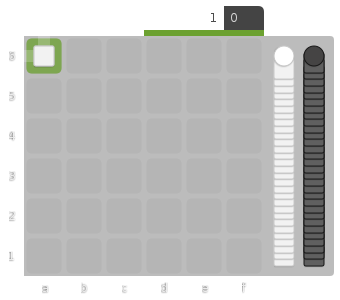
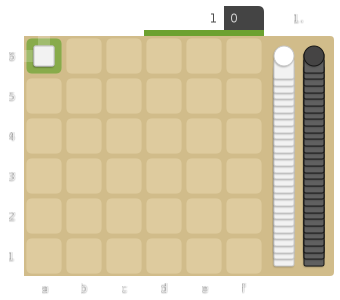
New feature: Stack Counts
- Add option `stackCounts`
- Remove option `pieceShadows`

diff --git a/src/themes.js b/src/themes.js
@@ -25,6 +25,8 @@ exports.themes = [
       textDark: "#212121cd",
       umbra: "#00000033",
     },
+    board1Dark: true,
+    board2Dark: true,
     player1Dark: false,
     player2Dark: true,
     secondaryDark: true,
@@ -55,6 +57,8 @@ exports.themes = [
       textDark: "#212121cd",
       umbra: "#00000033",
     },
+    board1Dark: false,
+    board2Dark: false,
     player1Dark: false,
     player2Dark: true,
     secondaryDark: false,
@@ -85,6 +89,8 @@ exports.themes = [
       textDark: "#000000",
       umbra: "#000000aa",
     },
+    board1Dark: false,
+    board2Dark: true,
     player1Dark: false,
     player2Dark: true,
     secondaryDark: true,
@@ -115,6 +121,8 @@ exports.themes = [
       textDark: "#212121cd",
       umbra: "#00000033",
     },
+    board1Dark: false,
+    board2Dark: false,
     player1Dark: false,
     player2Dark: true,
     secondaryDark: true,
@@ -145,6 +153,8 @@ exports.themes = [
       textDark: "#634831",
       umbra: "#453c3455",
     },
+    board1Dark: true,
+    board2Dark: true,
     player1Dark: false,
     player2Dark: true,
     secondaryDark: false,
@@ -174,6 +184,8 @@ exports.themes = [
       textDark: "#212121cd",
       umbra: "#00000022",
     },
+    board1Dark: true,
+    board2Dark: true,
     player1Dark: false,
     player2Dark: true,
     secondaryDark: true,
@@ -204,6 +216,8 @@ exports.themes = [
       textDark: "#212121cd",
       umbra: "#00000033",
     },
+    board1Dark: true,
+    board2Dark: true,
     player1Dark: false,
     player2Dark: true,
     secondaryDark: true,
@@ -234,6 +248,8 @@ exports.themes = [
       textDark: "#212121cd",
       umbra: "#00000033",
     },
+    board1Dark: false,
+    board2Dark: false,
     player1Dark: false,
     player2Dark: true,
     secondaryDark: false,
@@ -264,6 +280,8 @@ exports.themes = [
       textDark: "#212121cd",
       umbra: "#00000033",
     },
+    board1Dark: true,
+    board2Dark: true,
     player1Dark: true,
     player2Dark: true,
     secondaryDark: true,
@@ -293,6 +311,8 @@ exports.themes = [
       textDark: "#212121cd",
       umbra: "#00000066",
     },
+    board1Dark: false,
+    board2Dark: true,
     player1Dark: true,
     player2Dark: true,
     secondaryDark: true,
@@ -323,6 +343,8 @@ exports.themes = [
       textDark: "#000000cd",
       umbra: "#00000055",
     },
+    board1Dark: true,
+    board2Dark: true,
     player1Dark: false,
     player2Dark: true,
     secondaryDark: true,
@@ -353,6 +375,8 @@ exports.themes = [
       textDark: "#212121cd",
       umbra: "#00000022",
     },
+    board1Dark: false,
+    board2Dark: false,
     player1Dark: false,
     player2Dark: true,
     secondaryDark: false,
@@ -383,6 +407,8 @@ exports.themes = [
       textDark: "#212121cd",
       umbra: "#00000033",
     },
+    board1Dark: true,
+    board2Dark: true,
     player1Dark: false,
     player2Dark: true,
     secondaryDark: true,
@@ -413,6 +439,8 @@ exports.themes = [
       textDark: "#212121cd",
       umbra: "#00000066",
     },
+    board1Dark: true,
+    board2Dark: true,
     player1Dark: false,
     player2Dark: true,
     secondaryDark: true,
@@ -443,6 +471,8 @@ exports.themes = [
       textDark: "#212121cd",
       umbra: "#00000033",
     },
+    board1Dark: true,
+    board2Dark: true,
     player1Dark: false,
     player2Dark: true,
     secondaryDark: true,
@@ -473,6 +503,8 @@ exports.themes = [
       textDark: "#212121cd",
       umbra: "#00000055",
     },
+    board1Dark: false,
+    board2Dark: false,
     player1Dark: false,
     player2Dark: true,
     secondaryDark: false,

diff --git a/src/index.js b/src/index.js
@@ -26,10 +26,10 @@ const defaults = {
   axisLabels: true,
   turnIndicator: true,
   flatCounts: true,
+  stackCounts: true,
   komi: 0,
   moveNumber: true,
   opening: "swap",
-  pieceShadows: true,
   showRoads: true,
   unplayedPieces: true,
   padding: true,
@@ -190,6 +190,7 @@ exports.TPStoCanvas = function (options = {}) {
   const shadowBlur = strokeWidth + Math.round(squareSize * 0.03);
 
   const fontSize = (squareSize * textSizes[options.textSize] * board.size) / 5;
+  const stackCountFontSize = Math.min(squareSize * 0.2, fontSize);
   const padding = options.padding ? Math.round(fontSize * 0.5) : 0;
 
   const flatCounterHeight = options.turnIndicator
@@ -568,6 +569,25 @@ exports.TPStoCanvas = function (options = {}) {
       drawSquareHighlight();
     }
 
+    // Stack Count
+    if (options.stackCounts && square.pieces.length > 1) {
+      ctx.save();
+      ctx.font = stackCountFontSize + "px sans";
+      ctx.shadowOffsetX = 0;
+      ctx.shadowOffsetY = stackCountFontSize * 0.05;
+      ctx.shadowBlur = stackCountFontSize * 0.1;
+      ctx.shadowColor = (isDark ? theme.board2Dark : theme.board1Dark)
+        ? theme.colors.textDark
+        : theme.colors.textLight;
+      ctx.fillStyle = (isDark ? theme.board2Dark : theme.board1Dark)
+        ? theme.colors.textLight
+        : theme.colors.textDark;
+      ctx.textBaseline = "top";
+      ctx.textAlign = "right";
+      ctx.fillText(square.pieces.length, squareSize * 0.9, squareSize * 0.8);
+      ctx.restore();
+    }
+
     if (square.piece) {
       square.pieces.forEach(drawPiece);
       drawPiece(square.piece);
@@ -653,16 +673,12 @@ exports.TPStoCanvas = function (options = {}) {
     }
 
     // Fill
-    if (options.pieceShadows) {
-      ctx.save();
-      ctx.shadowBlur = shadowBlur;
-      ctx.shadowOffsetY = shadowOffset;
-      ctx.shadowColor = theme.colors.umbra;
-    }
+    ctx.save();
+    ctx.shadowBlur = shadowBlur;
+    ctx.shadowOffsetY = shadowOffset;
+    ctx.shadowColor = theme.colors.umbra;
     ctx.fill();
-    if (options.pieceShadows) {
-      ctx.restore();
-    }
+    ctx.restore();
 
     // Stroke
     if (strokeWidth > 0) {

diff --git a/readme.md b/readme.md
@@ -42,11 +42,11 @@ flats2         Override number of flat stones for player
 
 ### Examples:
 
-`$ TPStoPNG "1,1,2,x2/x5/x5/x5/2,x4 1 3" komi=1 imageSize=sm`
+`$ TPStoPNG "1,1,12,x2/x5/x5/x5/2,x4 1 4" komi=1 imageSize=sm`
 
-![Example 1](/1,1,2,x2-x5-x5-x5-2,x4%201%203.png)
+![Example 1](/1,1,12,x2-x5-x5-x5-2,x4%201%204.png)
 
-*Output: 1,1,2,x2-x5-x5-x5-2,x4 1 3.png*
+*Output: 1,1,12,x2-x5-x5-x5-2,x4 1 4.png*
 
 `$ TPStoPNG 6 opening=no-swap ply=a6 imageSize=sm theme=zen bgAlpha=0`
 
@@ -63,10 +63,10 @@ bgAlpha        [0, 1] Background opacity
 axisLabels     [true|false] Show board coordinate labels
 turnIndicator  [true|false] Show turn indicator and player names
 flatCounts     [true|false] Show flat counts
+stackCounts    [true|false] Show stack counts
 moveNumber     [true|false|<number>] Show current move number
 komi           [-20.5, 20.5] Bonus points awarded to Player 2
 opening        [swap|no-swap] Opening variations
-pieceShadows   [true|false] Show piece shadows or an outline
 showRoads      [true|false] Show road connections
 unplayedPieces [true|false] Show unplayed pieces
 padding        [true|false] Pad the image
